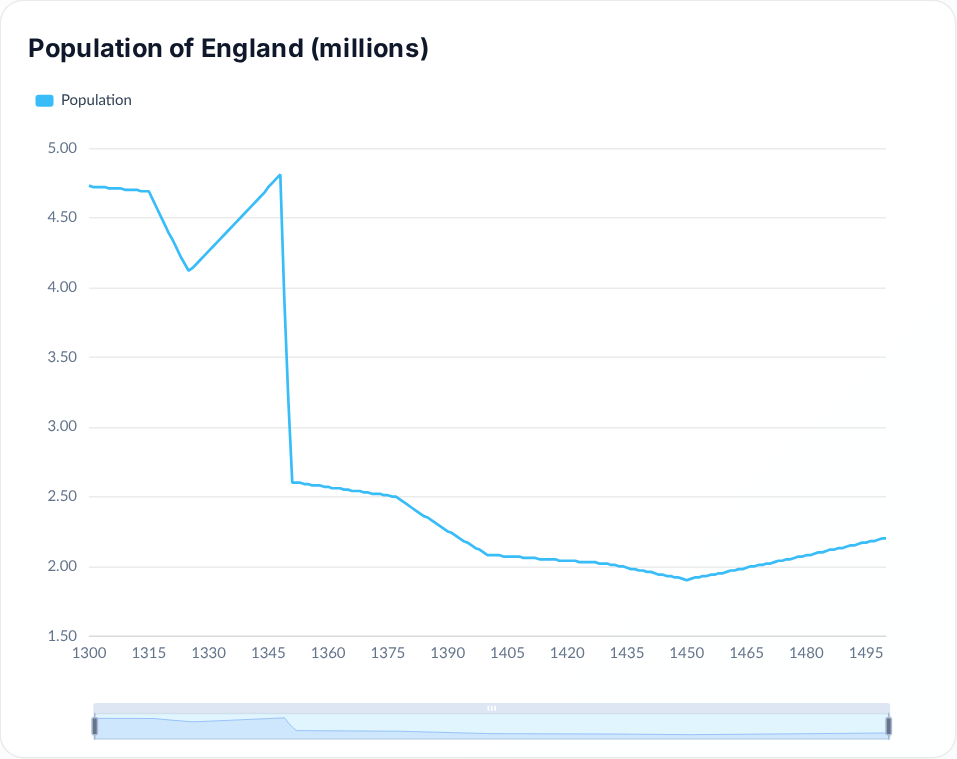
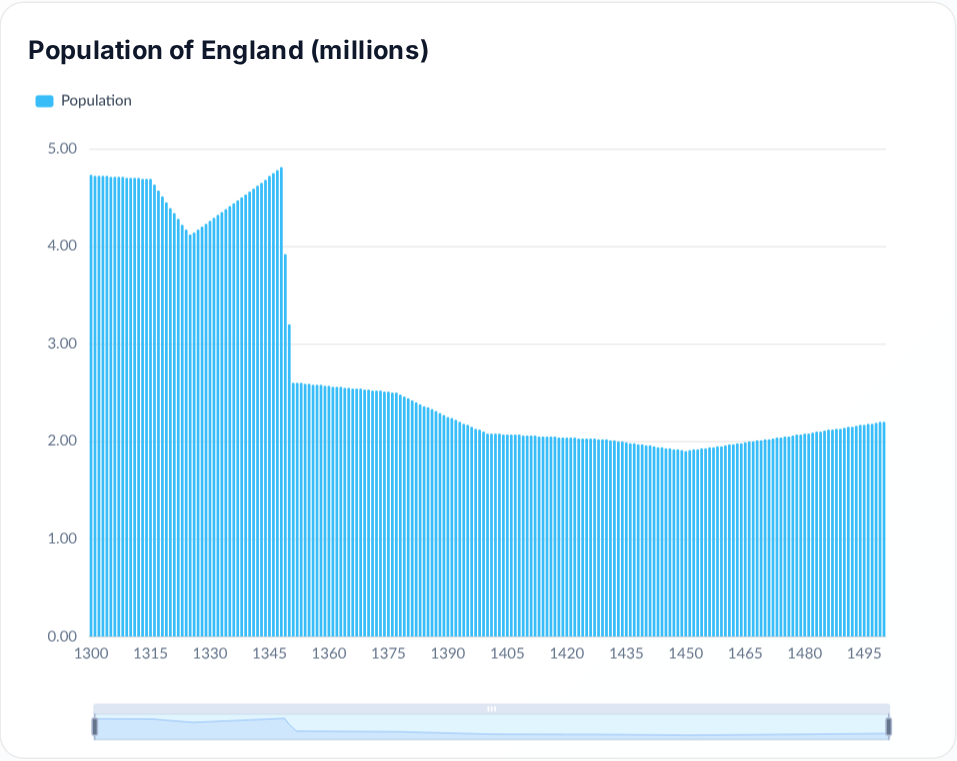
Black Death article: the population of England as bars (#253)

diff --git a/assets/js/ft-charts.js b/assets/js/ft-charts.js
@@ -194,8 +194,9 @@
         boundaryGap: isBar,
         axisLine: { lineStyle: { color: grid } },
         axisTick: { show: false },
-        // many bars (the portfolio tickers): show every label, slanted
-        axisLabel: isBar && (spec.x.length > 10 || Math.max.apply(null, spec.x.map(function (v) { return String(v).length; })) > 8) ? { color: muted, interval: 0, rotate: 45, fontSize: 11 } : { color: muted, hideOverlap: true, fontSize: 12.5 }
+        // many bars (the portfolio tickers): show every label, slanted; a long run of
+        // years as bars (more than 60) labels only every few years, like a line
+        axisLabel: isBar && !many && (spec.x.length > 10 || Math.max.apply(null, spec.x.map(function (v) { return String(v).length; })) > 8) ? { color: muted, interval: 0, rotate: 45, fontSize: 11 } : { color: muted, hideOverlap: true, fontSize: 12.5 }
       },
       yAxis: [{
         // log: a log scale, for growth over a long stretch (cumulative returns)

diff --git a/_scripts/article_charts.py b/_scripts/article_charts.py
@@ -301,9 +301,10 @@ def black_death_charts() -> dict:
 
     span = data.loc[1300:1500]
     charts = {
-        "bd-population": line(
+        # bars from zero, so the fall of almost half in three years shows as the drop it was
+        "bd-population": dict(line(
             "Population of England (millions)", span.assign(population=span["population"] / 1000),
-            {"population": "Population"}, "ratio"),
+            {"population": "Population"}, "ratio"), type="bar"),
         "bd-wages": line(
             "Real consumption wages in England", data.loc[1300:1550], {"wages": "Real consumption wage"}, "number"),
     }
